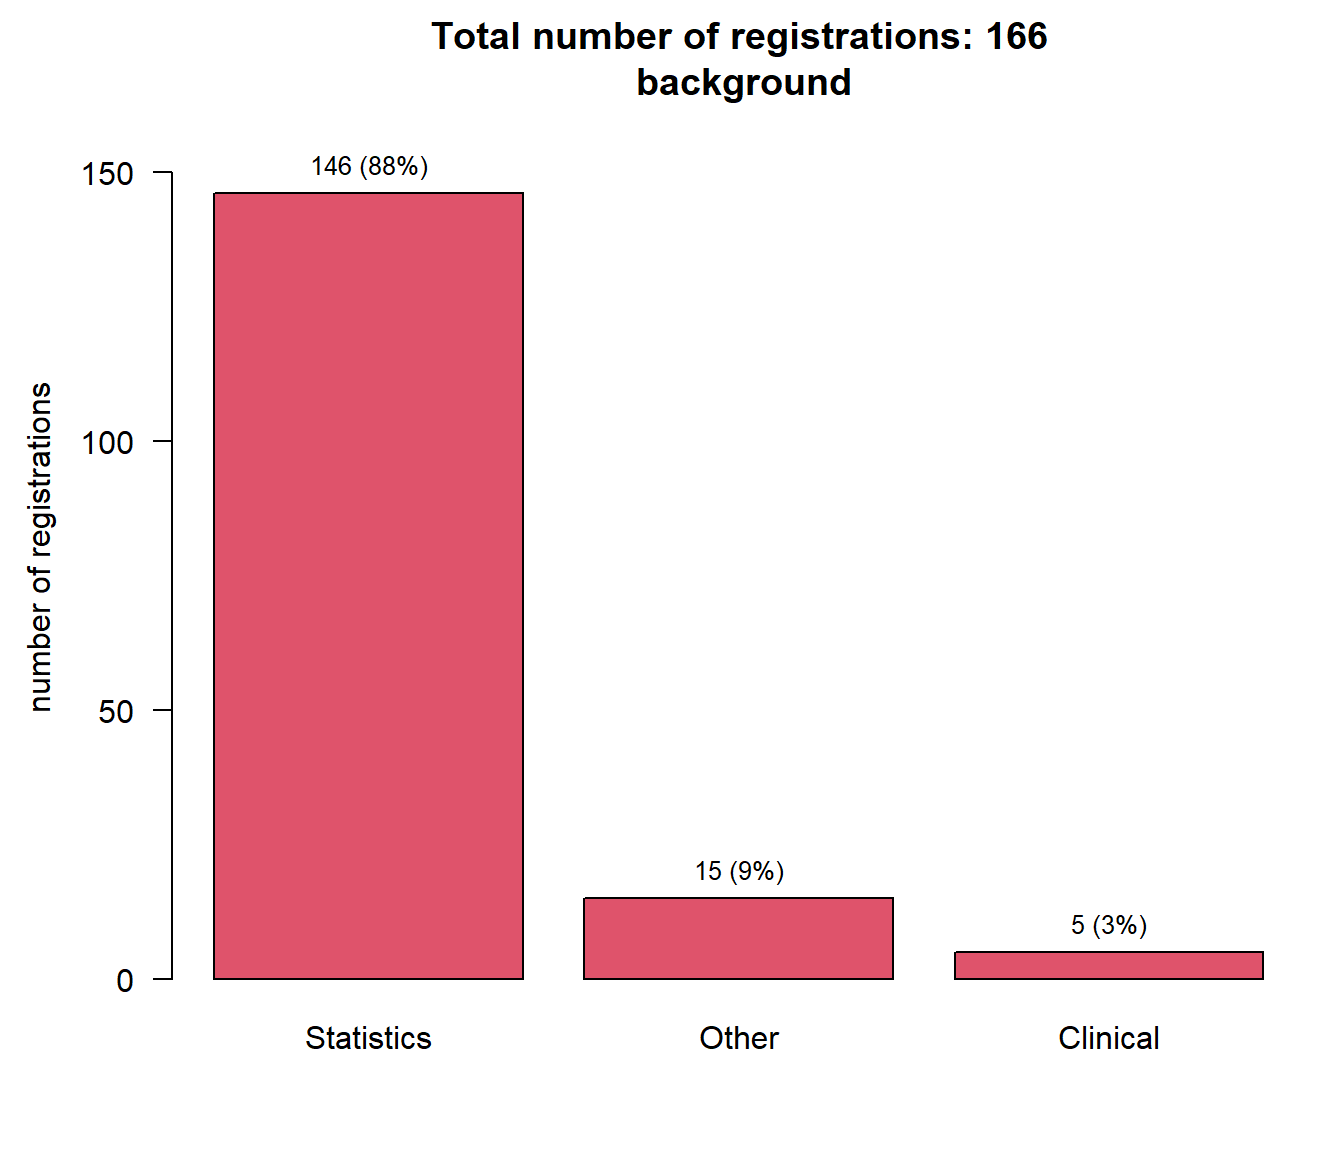
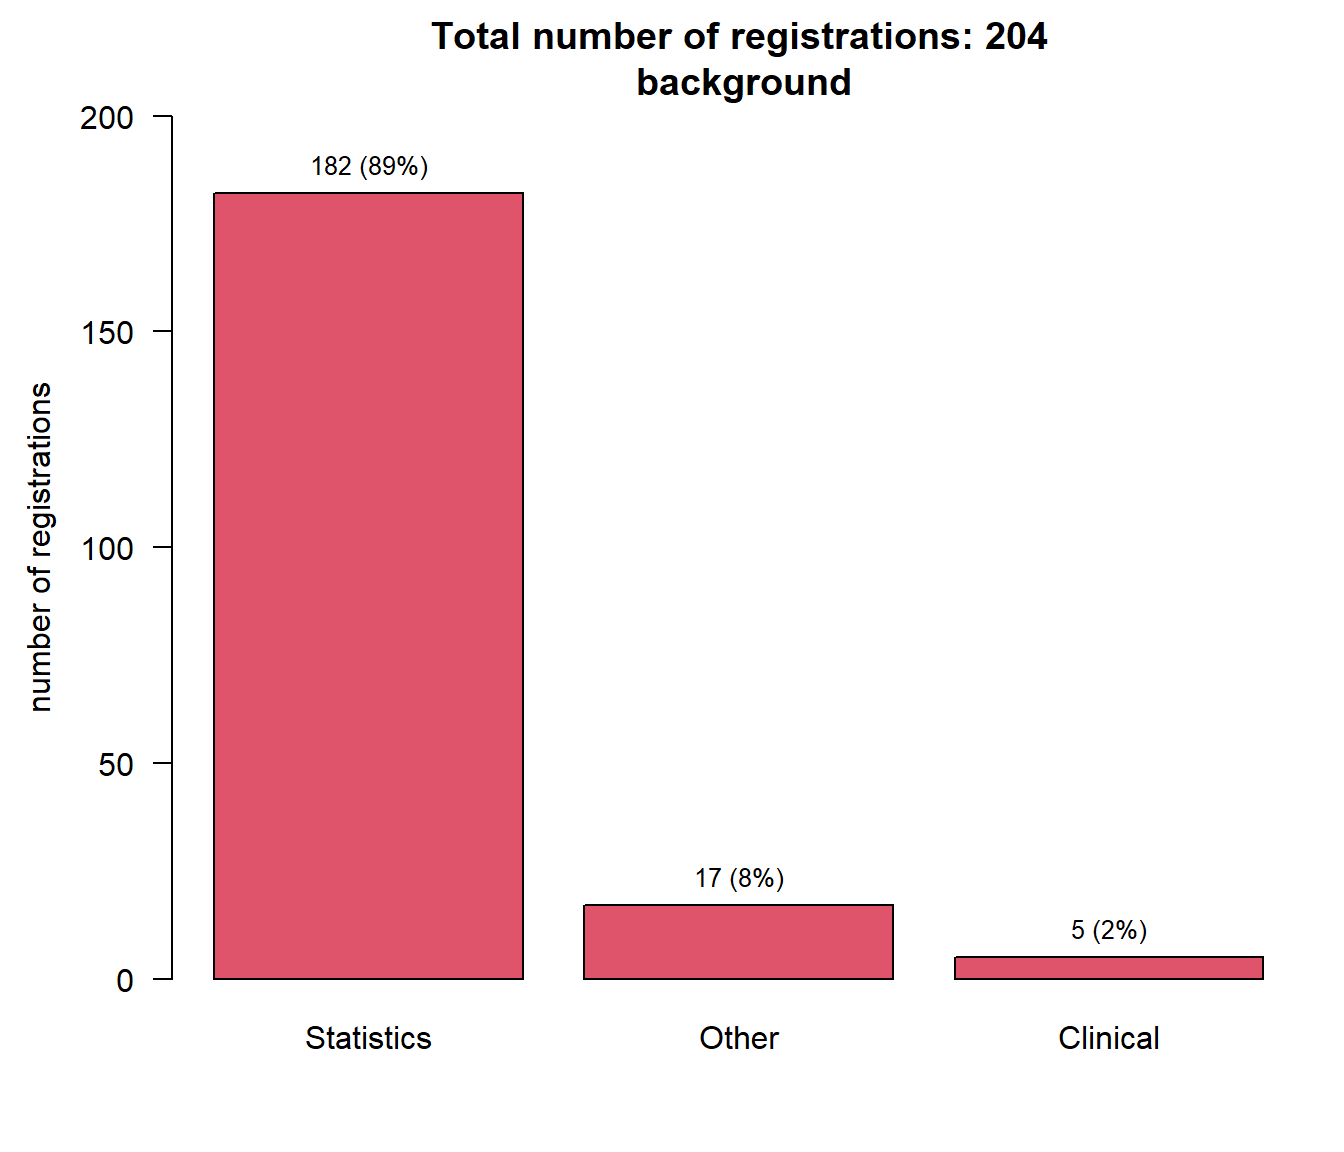
update

diff --git a/docs/upcoming/20250319/analysis_innovation.html b/docs/upcoming/20250319/analysis_innovation.html
@@ -7,7 +7,7 @@
 <meta name="viewport" content="width=device-width, initial-scale=1.0, user-scalable=yes">
 
 <meta name="author" content="Kaspar Rufibach">
-<meta name="dcterms.date" content="2025-02-15">
+<meta name="dcterms.date" content="2025-02-18">
 
 <title>Basel Biometrics Society - BBS seminar 19th March 2025: analysis of registrations</title>
 <style>
@@ -201,7 +201,7 @@ ul.task-list li input[type="checkbox"] {
     <div>
     <div class="quarto-title-meta-heading">Published</div>
     <div class="quarto-title-meta-contents">
-      <p class="date">February 15, 2025</p>
+      <p class="date">February 18, 2025</p>
     </div>
   </div>
   
@@ -213,7 +213,7 @@ ul.task-list li input[type="checkbox"] {
 
 <section id="data-status" class="level1">
 <h1>Data status</h1>
-<p>Data as of 2025-02-15 at 20:31:36.</p>
+<p>Data as of 2025-02-18 at 15:48:17.</p>
 </section>
 <section id="registrations-by-type-of-institution" class="level1">
 <h1>Registrations by type of institution</h1>
@@ -350,42 +350,50 @@ ul.task-list li input[type="checkbox"] {
 <td style="text-align: left;">What could be the role of a phases classification system for methodological research as described in Heinze et al.&nbsp;(2024)? https://onlinelibrary.wiley.com/doi/full/10.1002/bimj.202200222</td>
 </tr>
 <tr class="odd">
-<td style="text-align: left;">Andisheh</td>
-<td style="text-align: left;">Bakhshi</td>
-<td style="text-align: left;">no</td>
-</tr>
-<tr class="even">
 <td style="text-align: left;">Jacob</td>
 <td style="text-align: left;">Stærk-Østergaard</td>
 <td style="text-align: left;">Can we improve collaboration across industry and academia to push novel statistical methods into acceptance from both regulators and clinicians, and if so how?</td>
 </tr>
-<tr class="odd">
+<tr class="even">
 <td style="text-align: left;">Annesh</td>
 <td style="text-align: left;">Pal</td>
 <td style="text-align: left;">Coming from core academia, how can one apply Bayesian statistics in oncological studies? What path one can follow to create statistical innovations for detection or diagnosis of cancer? What are the interesting milestones already achieved in this direction and what are the possible directions of work for the future?</td>
 </tr>
-<tr class="even">
+<tr class="odd">
 <td style="text-align: left;">Susan</td>
 <td style="text-align: left;">Edwards</td>
 <td style="text-align: left;">How do you know when a new innovation’s benefit is great enough to make up for its (likely) added complexity or at least the hurdle of its unfamiliarity?</td>
 </tr>
-<tr class="odd">
+<tr class="even">
 <td style="text-align: left;">Divya</td>
 <td style="text-align: left;">Gunasekar</td>
 <td style="text-align: left;">At times when there is so much competition, how can we reduce the time to get a novel product to market sooner?</td>
 </tr>
-<tr class="even">
+<tr class="odd">
 <td style="text-align: left;">Tu</td>
 <td style="text-align: left;">Xu</td>
 <td style="text-align: left;">The biologic innovation is of no doubt to be a must in industry environment. However, statistical innovation is often considered an optional or ‘nice-to-have’ as long as regulatory requirements are met. How could we raise the importance of statistical innovation to the business and make it as a necessary part of clinical development process?</td>
 </tr>
-<tr class="odd">
+<tr class="even">
 <td style="text-align: left;">Xiaowei</td>
 <td style="text-align: left;">Ren</td>
 <td style="text-align: left;">Is there any application of Bayesian sample size augment in the single arm trial</td>
 </tr>
+<tr class="odd">
+<td style="text-align: left;">Pernille</td>
+<td style="text-align: left;">Juul Jørgensen</td>
+<td style="text-align: left;">Q1.1: How to balance adoptations of new statistical methods with the need for fast developed clinical programmes? Q1.2: Are there sometimes you would advise to go with an “old” method instead of trying something “new” out? Q2: How much extra time do you estimate that it takes to implement a new method for a study design? Q3: Is there a regulatory risk (e.g.&nbsp;longer interactions or pushback?) when using a new statistical method?</td>
+</tr>
+<tr class="even">
+<td style="text-align: left;">Jonas</td>
+<td style="text-align: left;">Lindeløv</td>
+<td style="text-align: left;">(1) Do you have examples of important innovations that did not reach impact? Can we draw learnings from those examples?</td>
+</tr>
 </tbody>
 </table>
+<ol start="2" type="1">
+<li>What is the effect size of following all the recommendations from this session? For example, is it an increase from 10% probability of success to 25%? | |Federico |Mattiello |What are the catalysts that help bringing innovation to fruition? | |Lada |Mitchell |1. Good statistical thinking, AI and maschine learning-what is a magical formula and long term vision? 2. How to inluence faster, eg bring new meaningful stats methodoly to applicatons and use? |</li>
+</ol>
 </div>
 
 

diff --git a/docs/talks/20191101/20191101_summary.html b/docs/talks/20191101/20191101_summary.html
@@ -7,7 +7,7 @@
 <meta name="viewport" content="width=device-width, initial-scale=1.0, user-scalable=yes">
 
 <meta name="author" content="Laurent Essioux, Dominik Heinzmann, Kaspar Rufibach, Marcel Wolbers">
-<meta name="dcterms.date" content="2025-02-15">
+<meta name="dcterms.date" content="2025-02-18">
 
 <title>Basel Biometrics Society - BBS seminar 1st November 2019: Predictive modelling, machine learning, and causality</title>
 <style>
@@ -206,7 +206,7 @@ ul.task-list li input[type="checkbox"] {
     <div>
     <div class="quarto-title-meta-heading">Published</div>
     <div class="quarto-title-meta-contents">
-      <p class="date">February 15, 2025</p>
+      <p class="date">February 18, 2025</p>
     </div>
   </div>
   
